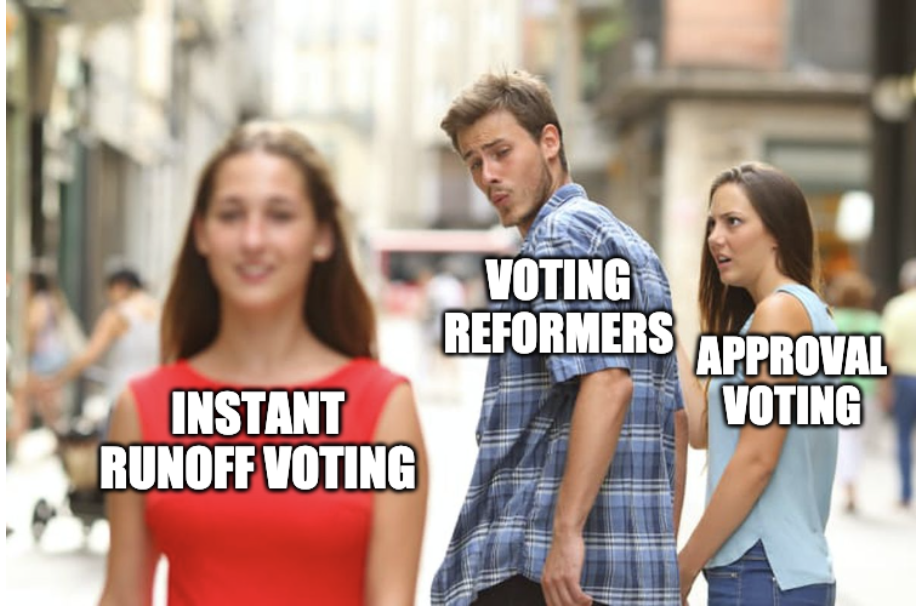
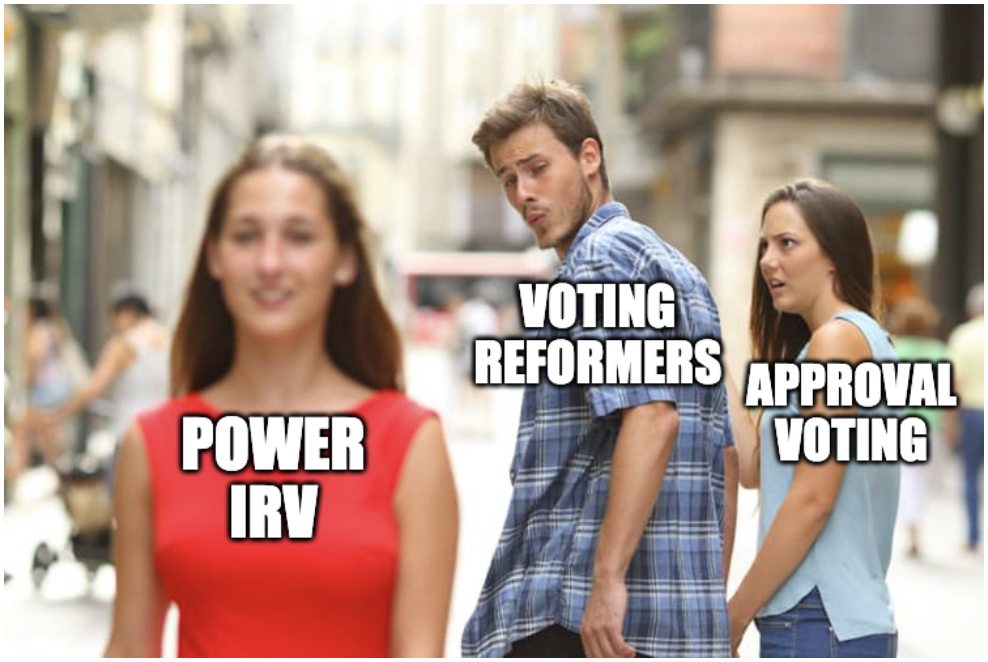
minor edits

diff --git a/_drafts/power-irv.md b/_drafts/power-irv.md
@@ -79,13 +79,16 @@ In this case:
 
 **Ugh.**  OK, so what do we do now?
 
-This is about the time when usually Approval Voting junkies all jump up to talk about [why Monotonicity is sooooo important](https://electowiki.org/wiki/Monotonicity#2009_Burlington.2C_Vermont_mayoral_election) and how their method never suffers from [Favorite Betrayal](https://electowiki.org/wiki/Favorite_betrayal_criterion) and so we should just shut up and get down with the APP.
+This is about the time when usually Approval Voting<sup>*</sup> junkies all jump up to talk about [why Monotonicity is sooooo important](https://electowiki.org/wiki/Monotonicity#2009_Burlington.2C_Vermont_mayoral_election) and how their method never suffers from [Favorite Betrayal](https://electowiki.org/wiki/Favorite_betrayal_criterion) and so we should just shut up and get down with the APP.
 
-![The state of voting reform](/assets/images/ballot/inline/distracted_voters.png){:class="img-responsive" width="500px"}
-{: images}
+\* Approval voting: all voters vote for all candidates they find acceptable.  Count up all the votes - highest total wins.
+{: small}
+
+&nbsp;
+{: center}
 
 {:center: style="text-align: center;"}
-# Nope!  Bye Felicia
+# Nope!  Bye Felicia.
 {: center}
 
 ![WTF is Power IRV?](/assets/images/ballot/inline/power_skeptical.png){:class="img-responsive" width="300px"}
@@ -94,8 +97,10 @@ This is about the time when usually Approval Voting junkies all jump up to talk 
 ## YES.
 {: center}
 
+![The state of voting reform](/assets/images/ballot/inline/distracted_voters.png){:class="img-responsive" width="500px"}
+{: images}
+
 # Sorry, Approval Voting:  Power IRV is the New Hotness
-{: center}
 
 Let's take a look: Power IRV works exactly like regular IRV *until you get down to the last 3 finalists*.
 
